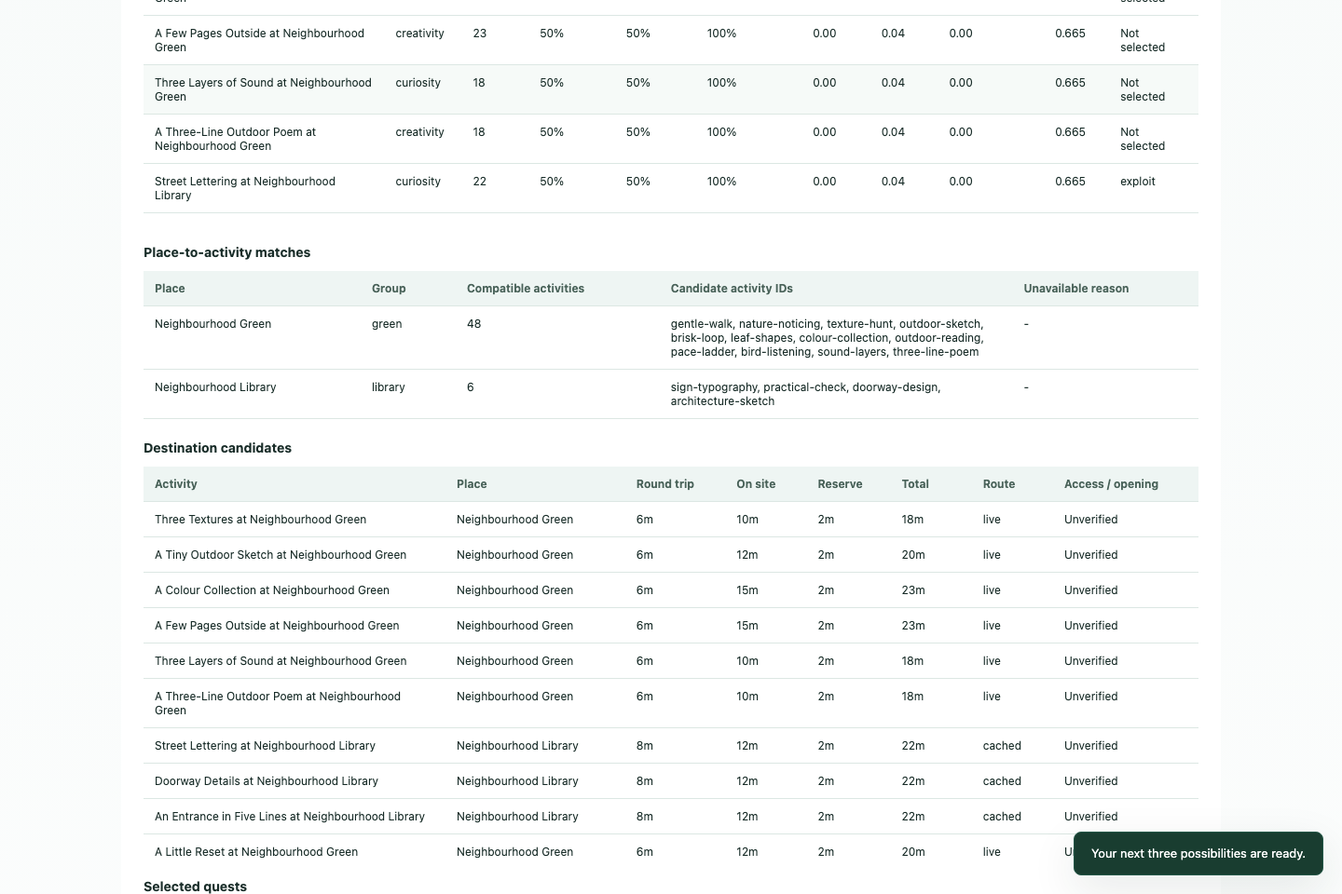
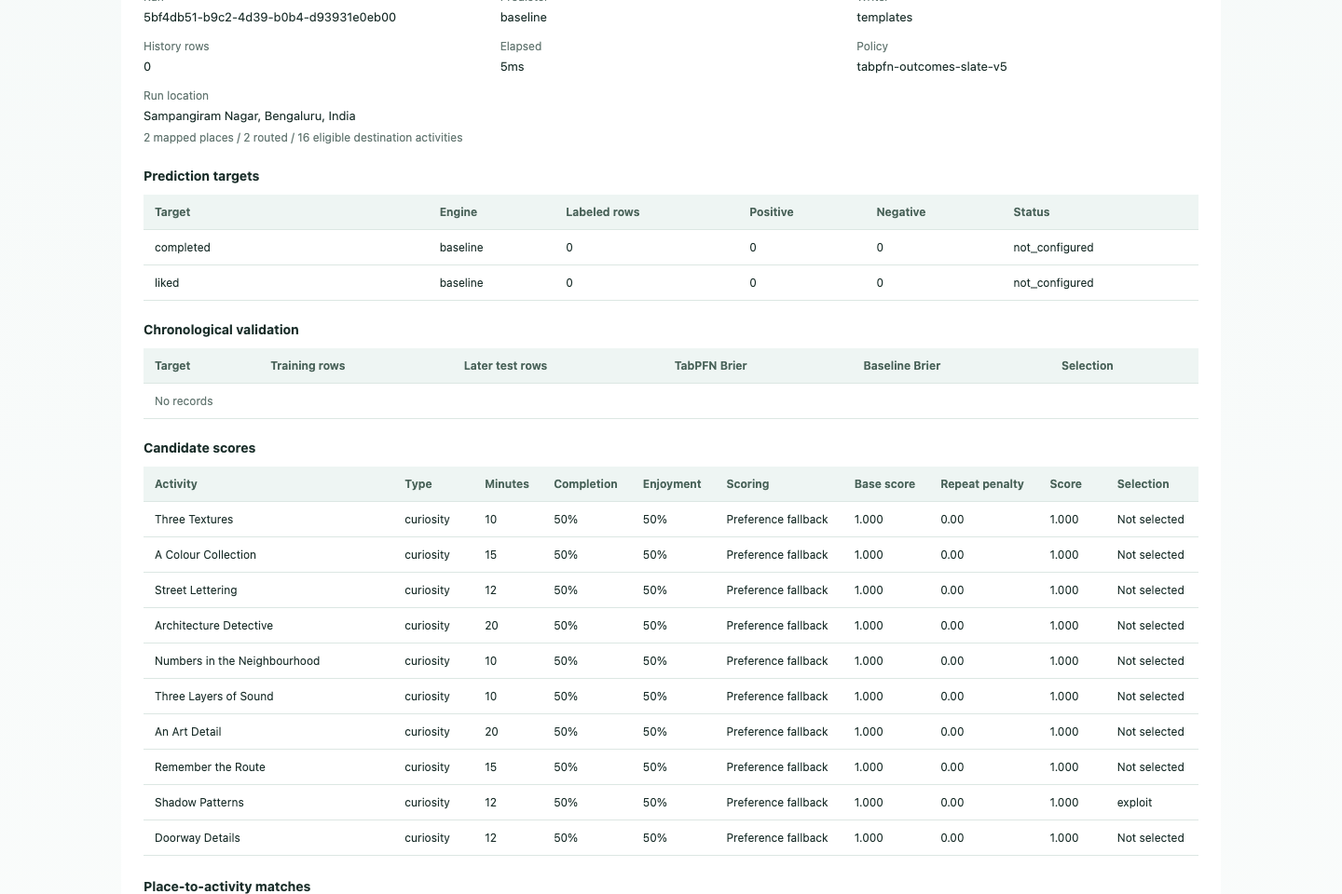
Simplify recommendation scoring and synchronize documentation

diff --git a/public/lab.js b/public/lab.js
@@ -100,9 +100,10 @@ export function createLab({ el, api, currentContext, locationControls, redraw, n
             String(d.evaluation.training_rows), String(d.evaluation.holdout_rows), String(d.evaluation.tabpfn_brier),
             String(d.evaluation.baseline_brier), d.evaluation.promoted ? "TabPFN" : "Baseline"])),
         el("h4", {}, "Candidate scores"),
-        table(["Activity", "Type", "Minutes", "Completion", "Enjoyment", "Goal alignment", "Mood fit", "Place fit", "Repeat penalty", "Score", "Selection"],
+        table(["Activity", "Type", "Minutes", "Completion", "Enjoyment", "Scoring", "Base score", "Repeat penalty", "Score", "Selection"],
           rec.candidates.map(q => [q.title, q.quest_type, String(q.duration), pct(q.completion_probability), pct(q.liked_probability),
-            pct(q.benefit_signal), (q.components.moodFit || 0).toFixed(2), (q.components.placeFit || 0).toFixed(2), q.components.repetitionPenalty.toFixed(2), q.score.toFixed(3),
+            q.scoring_mode === "outcome-average" ? "Outcome average" : q.scoring_mode === "preference-fallback" ? "Preference fallback" : "-",
+            (q.score + q.components.repetitionPenalty).toFixed(3), q.components.repetitionPenalty.toFixed(2), q.score.toFixed(3),
             rec.decisions.find(d => d.candidateId === q.id)?.decision || "Not selected"])),
         el("h4", {}, "Place-to-activity matches"),
         table(["Place", "Group", "Compatible activities", "Candidate activity IDs", "Unavailable reason"],

diff --git a/README.md b/README.md
@@ -39,6 +39,29 @@ Screenshots use automated demo data. Named places and source readings in the vis
 
 The flow is **context + history -> structured facts -> feasible catalog/place matches -> outcome predictions -> constrained selection -> Qwen wording -> saved quests -> feedback**. A user-selected catalog activity still passes the same feasibility checks. TabPFN and the selection policy are different components; new feedback conditions the predictor but does not fine-tune either model's weights.
 
+### Clear Recommendation Responsibilities
+
+1. **Filter first:** source adapters and the backend establish feasible activities using time, travel, physical/social comfort, supported dislikes/current constraints, daylight, weather and air quality.
+2. **Predict:** TabPFN receives 13 structured pre-outing features and labeled history, then estimates completion and liking. It does not discover places or choose the final deck.
+3. **Score and select:** when at least one target uses validated TabPFN (`tabpfn` or `hybrid`), `score = 0.5 * completion_probability + 0.5 * liked_probability - repetition_penalty`. Hybrid keeps the other target's baseline estimate. No additional goal, mood or place bonuses are added to these predictions.
+4. **Cold-start fallback:** when neither target uses TabPFN (`baseline`, including model failure), ranking instead uses explicit preference fit: 1 for a current-goal match, 0.75 for a supported hobby match, otherwise 0.4, minus the same repetition penalty. Provisional category-baseline probabilities remain visible but do not determine fallback ranking. This is a rule-based fallback, not learned personalization.
+5. **Write last:** Qwen personalizes wording after selection; factual steps, timings and destinations remain backend-owned.
+
+Repetition subtracts 0.15 for a template attempted within the last 12 feedback rows and 0.08 for one displayed in the last eight decks. Selection avoids duplicate activities/destinations, prefers different categories and recent-offer novelty, and explores on the third slot with probability 0.15. Existing first-slot low-effort and feasible named-place preferences remain selection constraints, not score bonuses. Scores are not probabilities; the equal weights and exploration rate are product settings, not measured optima.
+
+| Data | Backend use | TabPFN feature use |
+| --- | --- | --- |
+| Profile hobbies, dislikes, comfort, reminders | Filtering, fallback preferences, preparation and Qwen context | Not direct prediction features |
+| Minutes, mood, energy, goal, locality type | Outing settings; time/energy checks; goal-based fallback | All five are features |
+| Weather, temperature, rain probability | Conditions checks and preparation | All three are features |
+| Air quality | Conditions checks and preparation | Not a feature |
+| Mapped places and walking routes | Named candidate construction, compatibility and time checks | Travel minutes only; no place names/coordinates |
+| Candidate type, total duration, physical/social effort | Feasibility and selection | All four are features |
+| Past completion/liking and outing features | Repetition tracking and baseline estimates | Labeled historical examples |
+| Notes and recently offered activities | Supported intent, remembered preparation, Qwen context and novelty | Not prediction features |
+
+Hobbies and place categories are not yet TabPFN inputs. Removing their model-run bonuses is deliberate: no claim is made that they are learned indirectly. Adding reliable structured features and evaluating them against the chronological baseline is future work. Mood is already a TabPFN input, but is never added again as a scoring bonus. See [ARCHITECTURE.md](./ARCHITECTURE.md) for the exact flow and limitations.
+
 ## Prerequisites
 
 - Node.js **22.13+** (native `node:sqlite`) and npm. Developed with Node 25.3.
@@ -149,7 +172,7 @@ OLLAMA_MODEL=qwen2.5:3b
 
 Qwen customizes the selected activities' short copy. The backend preserves factual steps, destinations, duration and preparation. If generation fails or times out, the selected template quests remain usable.
 
-Named destination titles and **Why this quest** evidence are preserved independently of Qwen's wording. Reasons report the current time/energy/mood settings, supported goal and hobby matches, recorded completion/enjoyment counts, a recent relevant note, source facts and the selection decision. Mood fit is an explicit product rule, not a mental-health prediction. Simple bring/carry reminders for water, an umbrella, a snack or a reusable bag can be carried forward from the latest relevant note; arbitrary notes are not fully interpreted.
+Named destination titles and **Why this quest** evidence are preserved independently of Qwen's wording. Reasons report time/energy fit, supported goal and hobby matches, recorded completion/enjoyment counts, a recent relevant note, source facts and the selection decision. They identify outcome-average versus preference-fallback ranking. A goal/hobby match is factual context, not proof of an extra model-run bonus or an inferred causal benefit. Simple bring/carry reminders for water, an umbrella, a snack or a reusable bag can be carried forward from the latest relevant note; arbitrary notes are not fully interpreted.
 
 ## Local TabPFN
 
@@ -190,7 +213,7 @@ Weather is cached for 10 minutes, air quality for 30 minutes, places/routes for 
 
 Overpass tries the standard public endpoint, then Private.coffee on a network/server failure (at most two requests, **35 seconds each**). Queries allow **15 seconds of server execution**; the longer HTTP deadline leaves room for queueing and network delay. Place discovery can therefore take up to about 70 seconds when both endpoints are slow, before routing and model inference. Rate-limit responses are not retried. Concurrent duplicate queries share a request; failures have a 30-second per-query cooldown. Set `OVERPASS_URL` to self-host; custom endpoints have no automatic public fallback unless `OVERPASS_FALLBACK_URL` is explicitly set. An empty fallback variable disables failover. Missing routing credentials are shown independently of place-fetch failures. Only unexpired cached facts are reused: there is no stale-place fallback or cross-area cache reuse in this version.
 
-The legacy SerpAPI endpoint remains available when configured, but it is **not called by the recommendation pipeline**.
+The optional SerpAPI endpoint remains available when configured, but it is **not called by the recommendation pipeline**.
 
 Selecting a starting point previews weather and modeled air quality on both the homepage and lab. AQI is a regional CAMS estimate, not a neighbourhood sensor reading. Transient AQI failures receive one bounded retry (five-second first deadline, eight-second retry); rate limits and invalid responses are not retried. Persistent failure is displayed as unknown, never clean air. Location requests visibly enter a pending state and have a watchdog; browser/system permissions or an embedded preview can still prevent GPS access.
 
@@ -213,9 +236,9 @@ On the homepage, **Browse activities** provides search, category/time filters an
 
 The three-route budget prioritizes your goal or chosen activity and covers different place groups before additional similar venues. Each routed place contributes at most 12 feasible matches balanced across activity categories. When the same activity fits multiple places, the shorter verified round trip is retained. The original activity ID is preserved for history and repetition checks.
 
-Every destination candidate includes **round-trip walking time + on-site activity time + a two-minute reserve**. The catalog minimum is conservatively required as on-site time. Activities without enough time or a successful route are not attached to named destinations. Live conditions and profile constraints still apply before TabPFN ranking. A small rules-based place-fit bonus applies only to matches aligned with your goal or supported hobby; it is not a learned estimate of benefit. A deck does not repeat the same activity or destination.
+Every destination candidate includes **round-trip walking time + on-site activity time + a two-minute reserve**. The catalog minimum is conservatively required as on-site time. Activities without enough time or a successful route are not attached to named destinations. Live conditions and profile constraints still apply before TabPFN ranking. Places supply feasible opportunities, not an extra scoring bonus. A deck does not repeat the same activity or destination.
 
-Quest cards display the destination and time breakdown. In the lab, inspect **Place-to-activity matches**, **Destination candidates**, the **Place fit** score component and the `route_selection` / `place_matching` events. Access, stock, seating, facilities and opening hours remain unverified. Without precise coordinates or `ORS_API_KEY`, the general catalog remains available without invented destination travel times.
+Quest cards display the destination and time breakdown. In the lab, inspect **Place-to-activity matches**, **Destination candidates**, the **Scoring / Base score / Repeat penalty** columns and the `route_selection` / `place_matching` events. Access, stock, seating, facilities and opening hours remain unverified. Without precise coordinates or `ORS_API_KEY`, the general catalog remains available without invented destination travel times.
 
 ## Recommendation Lab
 
@@ -252,7 +275,7 @@ npm run test:browser
 
 Backend tests cover persistence, ownership, missing labels, demo isolation, source caching, constraints and exploration. Python tests cover chronological evaluation and truthful fallbacks. Browser tests cover desktop/mobile seeding, recommendations and saved feedback without spending voice API credits.
 
-The current local check runs **30 backend, 13 Python and 26 desktop/mobile browser tests**. A passing synthetic evaluation proves that the pipeline executes, not that users become more active.
+The test suite includes **34 backend, 13 Python and 28 desktop/mobile browser tests**, including score separation, hybrid/fallback behavior, saved-record display, repetition and source-to-predictor flow. A passing synthetic evaluation proves that the pipeline executes, not that users become more active.
 
 For a real single-container smoke check (Docker running, internet on first model download, sufficient RAM):
 
@@ -280,7 +303,7 @@ Qwen runs through the open-source Ollama runtime; TabPFN inference runs in a loc
 
 Fresh weather, place queries, routes and map tiles require internet. Optional ElevenLabs is a hosted, proprietary service and may incur charges. Coordinates are sent to location providers; speech text/audio is sent to ElevenLabs when used. Local inference avoids per-request hosted-model fees, not hardware, electricity, hosting or optional API costs. The prototype has no account authentication, API rate limits or prospective evidence of behavior change.
 
-Gemma, Tinker, MongoDB Atlas and Tiger Data are not implemented. SerpAPI remains an optional legacy endpoint, not part of quest recommendations. Background music is not implemented. We use deterministic source adapters rather than an autonomous tool-calling agent.
+Gemma, Tinker, MongoDB Atlas and Tiger Data are not implemented. SerpAPI remains an optional endpoint, not part of quest recommendations. Background music is not implemented. We use deterministic source adapters rather than an autonomous tool-calling agent.
 
 ## Visual Credits
 

diff --git a/ARCHITECTURE.md b/ARCHITECTURE.md
@@ -19,7 +19,11 @@ flowchart TD
   Candidates --> Filter[Time / effort / preference / conditions filters]
   Filter --> Predictor[Python TabPFN outcome predictor]
   DB --> Predictor
-  Predictor --> Score[Goal alignment and repetition scoring]
+  Predictor --> Mode{Any validated TabPFN target?}
+  Mode -->|Yes: TabPFN or hybrid| Average[50/50 completion and liking]
+  Mode -->|No: baseline| Fallback[Explicit goal/hobby preference fallback]
+  Average --> Score[Subtract repetition penalty]
+  Fallback --> Score
   Score --> Select[Constrained epsilon-greedy slate]
   Select --> Qwen[Local Qwen copy]
   Qwen --> Deck[Up to three quests]
@@ -54,7 +58,7 @@ Flexible documents use JSON columns; queryable outcome fields have dedicated col
 
 A random persistent HttpOnly, SameSite=Strict cookie is the local workspace capability. API responses are not cached, and cross-origin writes are rejected. HTTPS deployments use secure cookies and the configured public origin (Render's URL by default). This is not production authentication. Local Node defaults to localhost; Docker exposes Node and requires operational access controls for public use.
 
-The bootstrap endpoint imports valid legacy browser attempts once, in a transaction. Later refreshes read SQLite instead of reimporting stale browser state. Feedback uses the saved started attempt, so a caller cannot replace its quest or context. Feedback retries update the same row.
+The bootstrap endpoint imports valid browser-stored attempts once, in a transaction. Later refreshes read SQLite instead of reimporting stale browser state. Feedback uses the saved started attempt, so a caller cannot replace its quest or context. Feedback retries update the same row.
 
 Unselected quests have no outcome labels. Started-but-unfinished quests are stored for inspection and excluded from model history. Partial and skipped are distinct statuses; full completion is the current binary prediction target. Enjoyment and benefit can be null.
 
@@ -85,24 +89,34 @@ Named destination candidates reserve two minutes beyond travel and on-site activ
 
 Filtering considers available time, physical/social comfort, low energy, supported explicit note constraints, dislikes, darkness for destination quests, and severe available conditions. Arbitrary natural-language constraints are not fully understood; the small explicit matcher is intentionally limited.
 
-TabPFN returns completion and enjoyment estimates for every eligible candidate. The backend computes:
+The predictor returns completion and liking estimates for every eligible candidate, plus an honest `tabpfn`, `hybrid` or `baseline` mode. Policy `tabpfn-outcomes-slate-v5` separates prediction-based ranking from the fully baseline fallback.
+
+When at least one target uses validated TabPFN (`tabpfn` or `hybrid`), the backend computes:
 
 ```text
-score = 0.40 * completion_probability
-      + 0.35 * liked_probability
-      + 0.25 * goal_alignment
-      + place_fit_bonus
-      + mood_fit_bonus
+score = 0.50 * completion_probability
+      + 0.50 * liked_probability
       - repetition_penalty
 ```
 
-Goal alignment is a rules-based signal, not an inferred causal benefit. A stable template ID receives a 0.15 penalty if attempted among the last 12 feedback rows, plus 0.08 if displayed in the last eight recommendation slates. Display history is read separately from outcome labels: an unchosen quest is not counted as a failure. The weights are initial product settings, not scientifically established optima.
+Hybrid mode averages the validated target with the other target's baseline probability. No extra goal, hobby, mood or place bonuses are added. Mood, current goal, weather, duration and travel are already predictor inputs; the policy does not assume how strongly TabPFN uses them. Exact places and profile hobbies are not predictor features.
 
-Place fit adds 0.04 only for a verified-route/catalog match whose activity type aligns with the selected goal or supported profile hobby. This is a bounded product heuristic, not a model prediction or causal estimate. TabPFN sees the actual travel and total duration through its existing features; it does not receive exact destination coordinates.
+When neither target uses TabPFN, ranking switches to an explicit rule-based fallback:
 
-Mood fit adds 0.06 for supported rule-based category/effort matches. Tired/anxious settings favour gentle, low-social activities; restless favours movement; bored/curious favour noticing and creative activities. These are inspectable preference rules, not clinical judgments. Intent and verified-destination gates apply to generic candidates too, so the generic catalog cannot bypass an unrequested book return or invent a nearby garden.
+```text
+preference = 1.00 if activity type matches the current goal
+             0.75 otherwise if it matches a supported profile hobby
+             0.40 otherwise
+score = preference - repetition_penalty
+```
 
-The first slot favours low-effort, nonsocial activities. Subsequent slots favour different categories when available. Within each eligible pool, recently displayed activities are excluded when alternatives remain. Exploitation samples uniformly among candidates within 0.02 of the highest score, avoiding catalog-order bias. The third slot uses epsilon=0.15 to explore among the least-tried remaining categories. If the user picks a library activity, the first slot is reserved for it only after all safety/time filters pass; its conditional probability is 1. The lanes are presentation labels, not a promise that the third activity is physically harder.
+Baseline probabilities remain available for inspection but are not used in this fallback ranking. The fallback applies during cold start, failed validation, missing configuration or model failure when both targets are baseline. It is not learned personalization. Mood is still recorded and supplied to the predictor; there is no standalone mood-score rule in either path. Profile comfort/dislikes and supported current constraints remain eligibility rules. Intent and required-destination gates also apply to generic candidates.
+
+A stable template ID receives a 0.15 penalty if attempted among the last 12 feedback rows, plus 0.08 if displayed in the last eight recommendation slates. Display history is read separately from outcome labels: an unchosen quest is not counted as a failure. The score is a ranking value, not a probability. Equal outcome weights, fallback preferences and penalty sizes are initial product settings, not scientifically established optima.
+
+Candidates store `scoring_mode` (`outcome-average` or `preference-fallback`) and contributions for completion, enjoyment, fallback preference and repetition. Selection events persist these components. The run summary records the policy version; saved scores are not rewritten.
+
+The first slot favours low-effort, nonsocial activities. Subsequent slots favour different categories when available. Within each eligible pool, recently displayed activities are excluded when alternatives remain. Exploitation samples uniformly among candidates within 0.02 of the highest score, avoiding catalog-order bias. The third slot uses epsilon=0.15 to explore among the least-tried remaining categories. If the user picks a catalog activity, the first slot is reserved for it only after all safety/time filters pass; its conditional probability is 1. An eligible named-place variant of that template is preferred over the generic version explicitly, without relying on a place-score bonus. The lanes are presentation labels, not a promise that the third activity is physically harder.
 
 Candidates for an already chosen template or named destination are excluded from subsequent slots. This prevents a local activity and its generic version appearing together, or three nominally different tasks at the same place.
 
@@ -143,7 +157,7 @@ ElevenLabs is independent of ranking and optional. Local reward sounds and brows
 
 | Method | Route | Purpose |
 | --- | --- | --- |
-| POST | /api/bootstrap | One-time legacy import; load authoritative profile/history |
+| POST | /api/bootstrap | One-time browser-data import; load authoritative profile/history |
 | POST | /api/profile | Validate and persist profile |
 | POST | /api/generate | Recommend using stored personal history |
 | GET | /api/activities | Full browsable 120-activity catalog |
@@ -156,7 +170,7 @@ ElevenLabs is independent of ranking and optional. Local reward sounds and brows
 | POST | /api/location/reverse | Cached ORS/Pelias area name for a selected pin or GPS point |
 | POST | /api/location/conditions | Cached weather/AQI preview for the selected point; no routing |
 | GET | /api/status | Database/source/model configuration and service health |
-| POST | /api/context | Legacy optional SerpAPI query; not part of recommendations |
+| POST | /api/context | Optional SerpAPI query; not part of recommendations |
 | POST | /api/reward | Friendly reward copy |
 | POST | /api/speak | Optional ElevenLabs speech |
 | POST | /api/transcribe | Optional ElevenLabs note transcription |

diff --git a/docs/SUBMISSION.md b/docs/SUBMISSION.md
@@ -12,8 +12,8 @@ tags: devchallenge, hf26challenge, ai, opensource
 
 That is the idea behind **Outbound**: a small, gamified outdoor quest app built around local, open-weight AI. Not an infinite feed. Not another chatbot to keep talking to. Just a little help choosing something worth doing in the real world.
 
-![Outbound's actual desktop interface, showing the outdoor banner and quick outing controls](./assets/home.png)
-*Figure 1. A starting point, not a destination: the actual Outbound interface with automated demo state.*
+![Outbound's actual homepage, with outing controls on the left and three quest possibilities in the right-hand column](./assets/home.png)
+*Figure 1. Three possibilities alongside your outing settings. Actual application UI with automated demo state and controlled place/source fixtures, not a live outdoor session.*
 
 You start with interests, goals, things you dislike, and a few practical reminders. Before an outing, you tell Outbound how much time you have, how you feel, your energy level, and optionally your starting point.
 
@@ -98,7 +98,11 @@ Cold start uses a smoothed category baseline. Each target needs enough varied la
 
 ### 🎲 Selection balances relevance with variety
 
-The recommendation engine combines outcome estimates with goal alignment, bounded mood/place bonuses, and repetition penalties. It creates a diverse slate, avoids recently offered activities when alternatives remain, and uses limited epsilon-greedy exploration in the third slot.
+The responsibilities are deliberately separate: **the backend filters; TabPFN predicts; the policy selects; Qwen writes.** When at least one target uses validated TabPFN, ranking averages completion and liking estimates equally, then subtracts repetition penalties. There are no extra mood, goal or place bonuses layered on top. Hybrid mode keeps a baseline estimate for the unpromoted target.
+
+When neither target uses TabPFN, a clearly labeled rule-based fallback ranks current-goal and supported hobby matches instead. The lab distinguishes this preference fallback from outcome-average scoring. Places and air quality still matter for candidate construction and suitability; they do not become extra prediction bonuses. Hobbies and raw place categories are not yet model features.
+
+Selection creates a diverse slate, avoids recently offered activities when alternatives remain, and uses limited epsilon-greedy exploration in the third slot. Feasible named-place candidates remain preferred in the first slot, as a selection constraint rather than a score bonus.
 
 That policy is inspectable code, not a separately trained reinforcement-learning model. It records its candidate pools and conditional selection probabilities. The probabilities describe the app's selection, not a causal estimate of what an activity will do for someone.
 
@@ -109,15 +113,15 @@ That policy is inspectable code, not a separately trained reinforcement-learning
 New feedback becomes context for future predictions and relevant reminders. **We do not fine-tune Qwen or TabPFN weights after every quest.**
 
 ![The recommendation lab showing saved context, selected quests, scores, and place matching](./assets/lab.png)
-*Figure 5. The lab makes the decision process inspectable. This screenshot uses a controlled visual fixture; actual model execution is checked separately.*
+*Figure 5. The lab distinguishes outcome-average scoring from an explicit preference fallback, with base scores and repetition penalties. This screenshot shows the fallback using a controlled visual fixture; actual model execution is checked separately.*
 
-### 🛠 A small reliability lesson
+### 🛠 Built to Be Trusted
 
-Public Overpass servers sometimes respond too slowly. The HTTP wait is now thirty-five seconds per endpoint, with fifteen seconds allowed for query execution. Existing bounded failover, request coalescing, a thirty-second failed-query cooldown, and a twenty-four-hour cache remain in place. This does not guarantee a response; failed lookups are reported honestly and do not become fabricated facts.
+**A quest should come with evidence, not just reassuring language.** Named destinations need a mapped place, a successful walking estimate, and enough time for the activity and return. When a provider or model is unavailable, Outbound reports it and uses the appropriate cached-data, baseline, or template fallback. Missing information never becomes an invented destination.
 
-The all-in-one Docker image uses Supervisor, internal-only model ports, non-root application workers, and a persistent disk for SQLite and model caches. A web liveness check is deliberately different from model readiness.
+**Your progress should survive the app restarting.** The single-container deployment preserves SQLite history and model caches on its persistent disk. Supervisor restarts crashed workers, while the model services stay internal and only the web API is exposed publicly.
 
-✅ Verification covers **30 backend tests, 13 Python tests, and 26 desktop/mobile browser tests**. A separate container smoke check exercises real Qwen generation, actual TabPFN evaluation, worker restart, and persistence across redeployment. Synthetic tests validate mechanics, not real-world behavior change.
+✅ **Checked beyond mock responses:** 75 automated tests cover the backend, Python predictor, and desktop/mobile workflows. A separate container smoke test is available to run real Qwen generation and TabPFN evaluation, kill a worker to check recovery, and verify that saved history survives a fresh-container redeploy. That container test passed before this scoring refactor; it has not been rerun against the revised policy.
 
 ## Why Does Open Innovation Matter?
 
@@ -144,6 +148,7 @@ That is where this approach fits better than a closed inference-only integration
 - 📊 **Best Use of TabPFN:** local completion/enjoyment prediction, per-target chronological validation, and explicit baseline/hybrid/model modes.
 - 🎙 **Best Use of ElevenLabs:** optional quest read-aloud, friendly reward speech, and reflection transcription.
 - 🚀 **Best Use of Render:** the supplied public demo is hosted on Render; the repository also packages the complete self-hosted runtime in one Docker service. The local container checks are not a claim about the currently deployed service's model readiness.
+- 💻 **Best Use of GitHub Copilot:** used GitHub Copilot during the development of Outbound.
 
 🌿 **The ambition is small on purpose: make one real-world action easier to choose today.**
 

diff --git a/docs/PUBLISHING.md b/docs/PUBLISHING.md
@@ -5,12 +5,13 @@
 ## Before Publishing
 
 - Recheck [the live demo](https://outbound-taqn.onrender.com/) in a browser. The homepage returned HTTP 200 during preparation; this does not establish that Qwen or TabPFN is ready. Inspect `/api/status` and the recommendation lab separately.
-- Commit and push the intended code/docs/assets changes when ready. The local timeout update is not in the deployed app until it is pushed and redeployed. No push or deployment was performed while preparing this draft.
+- Commit and push the intended code/docs/assets changes. Changes reach the deployed app only after Render successfully rebuilds and redeploys; verify the deployed policy and model readiness separately.
 - Upload the PNG files from `docs/assets/` using DEV's image uploader and replace the relative Markdown image paths with the returned image URLs. Relative paths work in the repository, not in a copied DEV post. Alternatively, use public raw GitHub asset URLs after committing and pushing the figures.
-- Use `home.png` as the cover image if desired; the remaining figures are `outdoor-loop.png`, `quests.png`, `architecture.png` and `lab.png`. Extra profile, catalog, source and mobile screenshots are included for a gallery or demo video.
+- `home.png` shows the actual homepage with outing settings on the left and all three quests on the right. The remaining submission figures are `outdoor-loop.png`, `quests.png`, `architecture.png` and `lab.png`. Extra profile, catalog, source and mobile screenshots are included for a gallery or demo video. The unused `three-possibilities.png` is an AI-generated concept illustration, not a screenshot or photograph of actual users; it is not embedded in the submission.
 - Preserve the captions: named-place screenshots use controlled source fixtures, and synthetic outcomes are not a real field test or performance study.
+- The revised policy is `tabpfn-outcomes-slate-v5`: model/hybrid runs average outcome probabilities; fully baseline runs use a separate preference fallback. Republish the updated architecture, homepage, quest and lab images together with the text. The supplied lab image shows fallback scoring, not successful hosted TabPFN inference.
 - No DevRelay link was supplied. The draft says so rather than fabricating a session. Add an actual session link later only if one exists.
-- Review the prize categories against what is deployed and demonstrable. TabPFN and ElevenLabs integrations are present; Render's public URL is supplied. Verify hosted model/voice access before recording a demo. Gemma, Tinker and the other unimplemented partner integrations are intentionally not claimed.
+- Review the prize categories against what is deployed and demonstrable. TabPFN and ElevenLabs integrations are present; Render's public URL is supplied. The author confirmed GitHub Copilot use during development; add a concrete example or session link if available, keeping it distinct from Codex sessions. Verify hosted model/voice access before recording a demo. Gemma, Tinker and the other unimplemented partner integrations are intentionally not claimed.
 - The repository currently has no application `LICENSE`. Choose an application license deliberately before describing your own code as licensed open source. Checkpoint-specific Qwen/TabPFN terms, OSM attribution, the photograph license and audio redistribution rights remain separate.
 - Keep API keys, private notes, exact personal coordinates and cookies out of recordings. The supplied screenshots use test data, not the personal SQLite database.
 - `published: false` is draft metadata, not a publishing command. Use DEV's editor to publish after reviewing the text and assets.
@@ -23,7 +24,7 @@ npm run test:browser
 node scripts/build-post-assets.mjs
 ```
 
-The script uses Chromium and the browser test screenshots to produce the PNG figures. `architecture.svg` is the editable diagram source. Browser artifacts stay gitignored; selected publication figures belong in `docs/assets/`.
+The script uses Chromium and the browser test screenshots to produce the PNG figures. `architecture.svg` is the editable diagram source. It does not regenerate the AI-created `three-possibilities.png`; the original prompt is preserved in `docs/assets/three-possibilities.prompt.txt`. Browser artifacts stay gitignored; selected publication figures belong in `docs/assets/`.
 
 ## A Short Demo Recording
 
